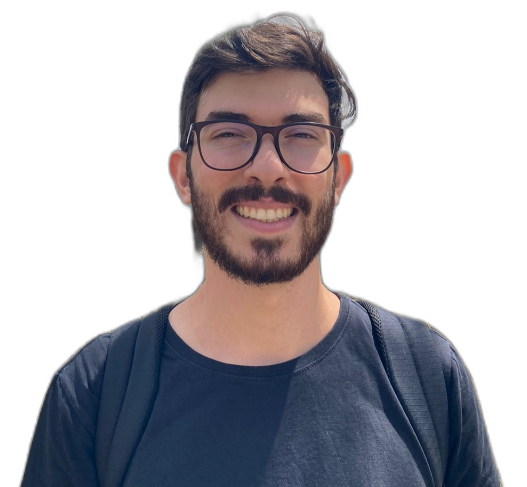
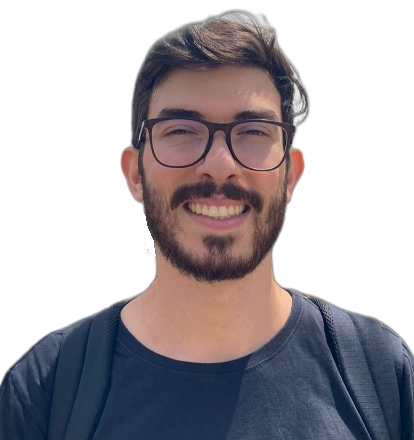
ADD

diff --git a/index.html b/index.html
@@ -102,7 +102,7 @@
                                     165.547 130.807 187.559 100.226 186.353C69.6454 185.297 41.0228 161.023 21.7403
                                     129.362C2.45775 97.8511 -7.48481 59.1033 6.67581 34.5279C20.9871 10.1032 59.7028
                                     -0.149132 97.9666 0.00163737C136.23 0.303176 174.193 10.857 190.312 36.4879Z"/>
-                                    <image class="home__blob-img" x='12' y='30' xlink:href="assets/img/perfil.png"/>
+                                    <image class="home__blob-img" x='14' y='24' xlink:href="assets/img/perfil.png"/>
                                 </g>
                             </svg>
                         </div>
